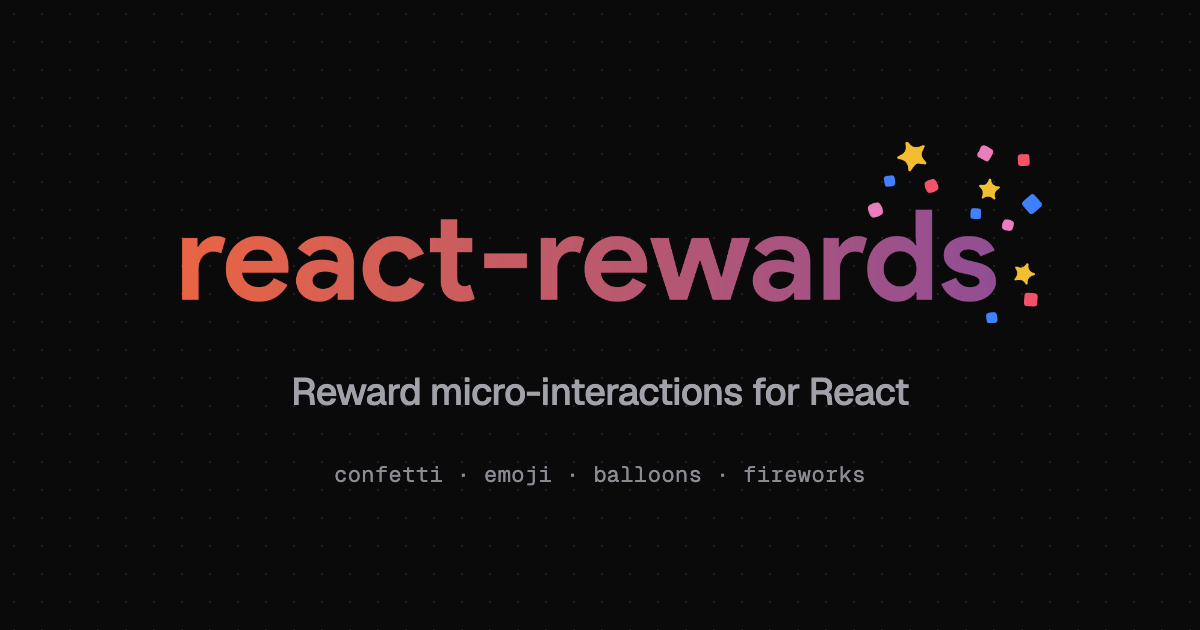
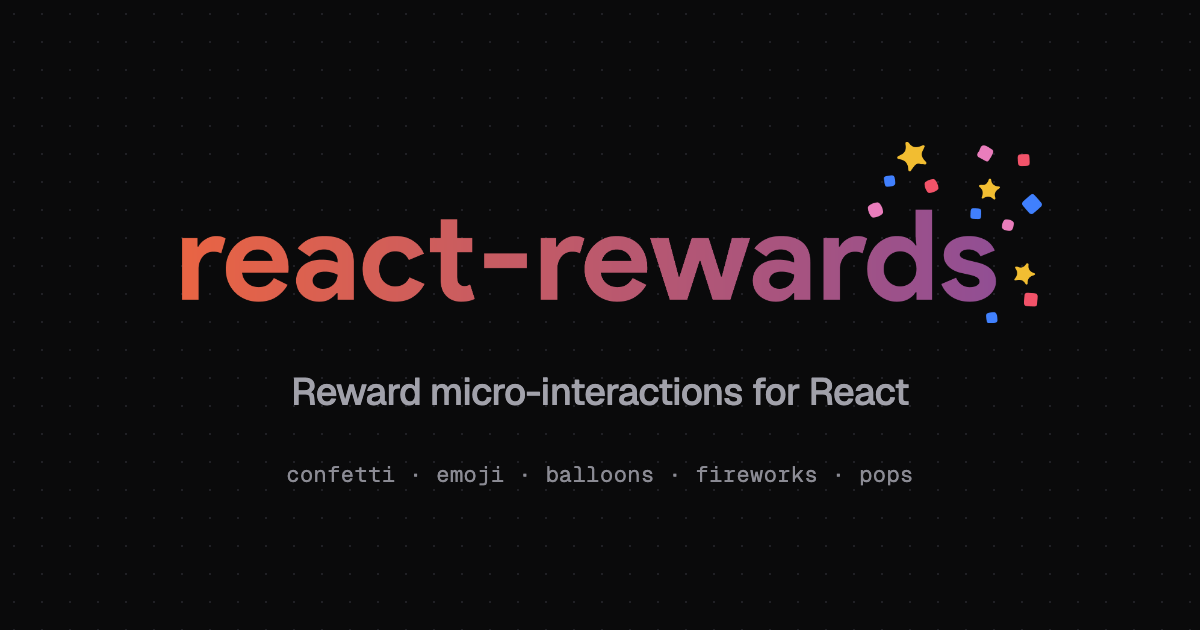
docs: name pops with the other effects
In the README, AGENTS.md, the useReward article, the site's description
and link previews, and the share card, rendered again. The useReward
article says a pop has no launch settings, and that its radius sets its
reach.

Changed region(s): [[0.2467, 0.7238, 0.7708, 0.7841]]

diff --git a/demo/src/articles/use-reward/component.tsx b/demo/src/articles/use-reward/component.tsx
@@ -89,7 +89,7 @@ export const UseRewardArticle = () => (
         </li>
         <li>
           <code>effect</code>: <code>confetti</code>, <code>emoji</code>,{' '}
-          <code>balloon</code>, <code>firework</code>, or{' '}
+          <code>balloon</code>, <code>firework</code>, <code>pop</code>, or{' '}
           <a href="#custom-effects">one of yours</a>.
         </li>
         <li>
@@ -116,10 +116,15 @@ export const UseRewardArticle = () => (
         <code>firework</code> share most of their settings, and every setting is
         optional. A firework's <code>count</code> is rockets rather than
         particles, and it has settings of its own for the rockets' spiral and
-        their shells. Each effect's page describes its settings, lists its
-        colours, and lets you try them: <a href="#confetti">Confetti</a>,{' '}
-        <a href="#emoji">Emoji</a>, <a href="#balloon">Balloons</a> and{' '}
-        <a href="#firework">Fireworks</a>.
+        their shells. A <code>pop</code> blooms in place rather than being
+        thrown, so it has no <code>angle</code>, <code>spread</code>,{' '}
+        <code>velocity</code>, <code>drag</code> or <code>gravity</code>: its{' '}
+        <code>radius</code> sets how far it reaches, and its <code>dots</code>{' '}
+        and <code>swirl</code> are its own. Each effect's page describes its
+        settings, lists its colours, and lets you try them:{' '}
+        <a href="#confetti">Confetti</a>, <a href="#emoji">Emoji</a>,{' '}
+        <a href="#balloon">Balloons</a>, <a href="#firework">Fireworks</a> and{' '}
+        <a href="#pop">Pop</a>.
       </p>
       <SettingsTable />
     </Section>

diff --git a/demo/index.html b/demo/index.html
@@ -3,7 +3,7 @@
   <head>
     <meta
       name="description"
-      content="Reward micro-interactions for React: confetti, emoji, balloons and fireworks."
+      content="Reward micro-interactions for React: confetti, emoji, balloons, fireworks and pops."
     />
     <link rel="canonical" href="https://thedevelobear.github.io/react-rewards/" />
     <!-- Rsbuild adds the SVG favicon. -->
@@ -15,7 +15,7 @@
     <meta property="og:title" content="react-rewards" />
     <meta
       property="og:description"
-      content="Reward micro-interactions for React: confetti, emoji, balloons and fireworks."
+      content="Reward micro-interactions for React: confetti, emoji, balloons, fireworks and pops."
     />
     <meta property="og:url" content="https://thedevelobear.github.io/react-rewards/" />
     <meta
@@ -26,7 +26,7 @@
     <meta property="og:image:height" content="630" />
     <meta
       property="og:image:alt"
-      content="react-rewards: reward micro-interactions for React. Confetti, emoji, balloons and fireworks."
+      content="react-rewards: reward micro-interactions for React. Confetti, emoji, balloons, fireworks and pops."
     />
     <meta name="twitter:card" content="summary_large_image" />
     <!-- The browser's bar, in each theme's --bg. useTheme follows a chosen theme. -->

diff --git a/demo/og-image/card.html b/demo/og-image/card.html
@@ -56,6 +56,6 @@
   <body>
     <img src="../../assets/react-rewards.png" alt="react-rewards" />
     <p>Reward micro-interactions for React</p>
-    <small>confetti · emoji · balloons · fireworks</small>
+    <small>confetti · emoji · balloons · fireworks · pops</small>
   </body>
 </html>

diff --git a/README.md b/README.md
@@ -10,7 +10,7 @@
 
 ⏱ **Frame-rate independent**, and quiet for people who prefer reduced motion
 
-**React-rewards** lets you add micro-interactions to your app, and rewards users with the rain of confetti, emoji, balloons or fireworks in seconds.
+**React-rewards** lets you add micro-interactions to your app, and rewards users with the rain of confetti, emoji, balloons or fireworks, or a pop of stars, in seconds.
 Firing confetti all over the page may seem like a questionable idea, but keep in mind that rewarding users for their actions is not.
 If a huge cloud of smiling emoji doesn't fit your application well, try changing the physics config to make it more subtle.
 
@@ -60,7 +60,7 @@ export const RewardButton = () => {
 };
 ```
 
-The effects are `confetti`, `emoji`, `balloon` and `firework`, and each has its settings on [its page of the docs](https://thedevelobear.github.io/react-rewards/#confetti).
+The effects are `confetti`, `emoji`, `balloon`, `firework` and `pop`, and each has its settings on [its page of the docs](https://thedevelobear.github.io/react-rewards/#confetti).
 
 ## Contributing
 

diff --git a/AGENTS.md b/AGENTS.md
@@ -1,6 +1,6 @@
 # Agent instructions
 
-react-rewards is a small React library of reward micro-interactions (confetti, emoji, balloons, fireworks). Version 3 is a rewrite around a particle engine, built PR by PR in the [v3 plan](docs/plans/2026-10-22-v3-rewrite.md).
+react-rewards is a small React library of reward micro-interactions (confetti, emoji, balloons, fireworks, pops). Version 3 is a rewrite around a particle engine, built PR by PR in the [v3 plan](docs/plans/2026-10-22-v3-rewrite.md).
 
 ## Before you start
 1. Read [`docs/README.md`](docs/README.md), then the active plan it links to, if there is one.
